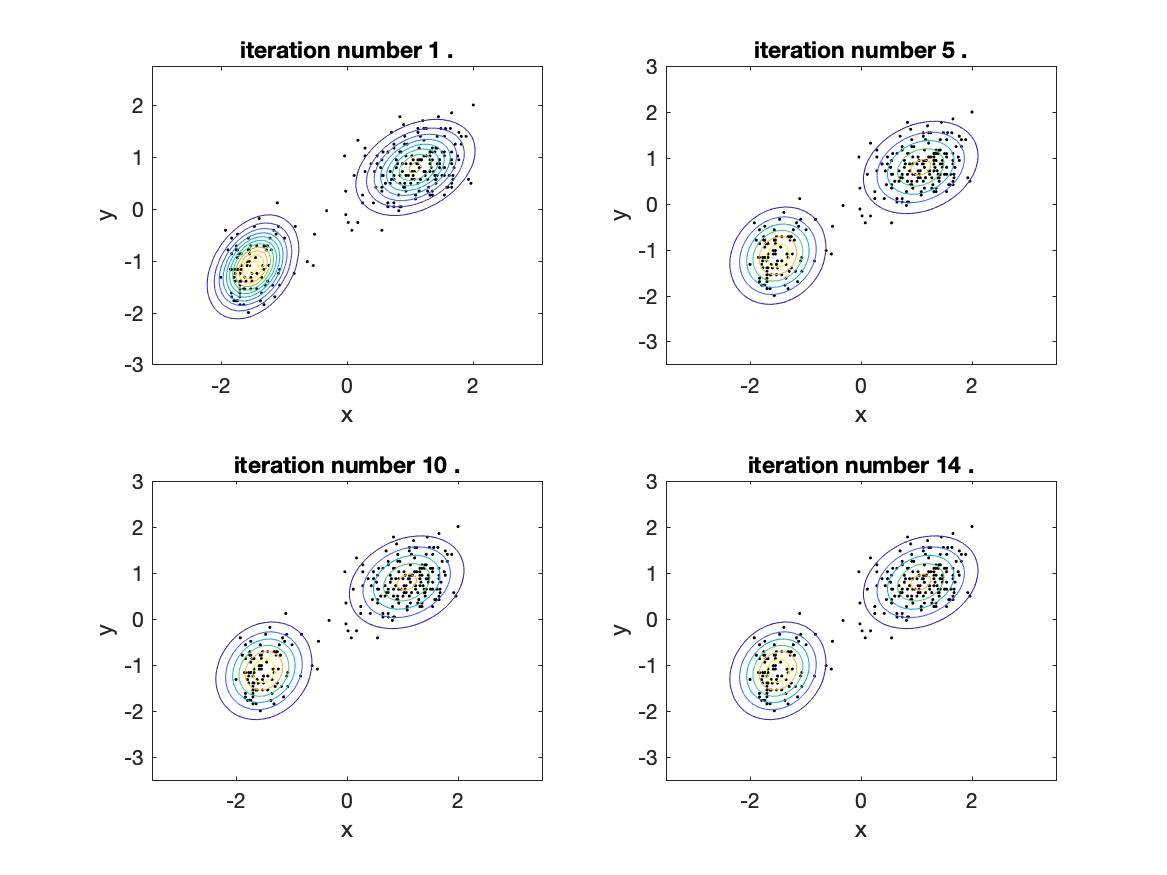
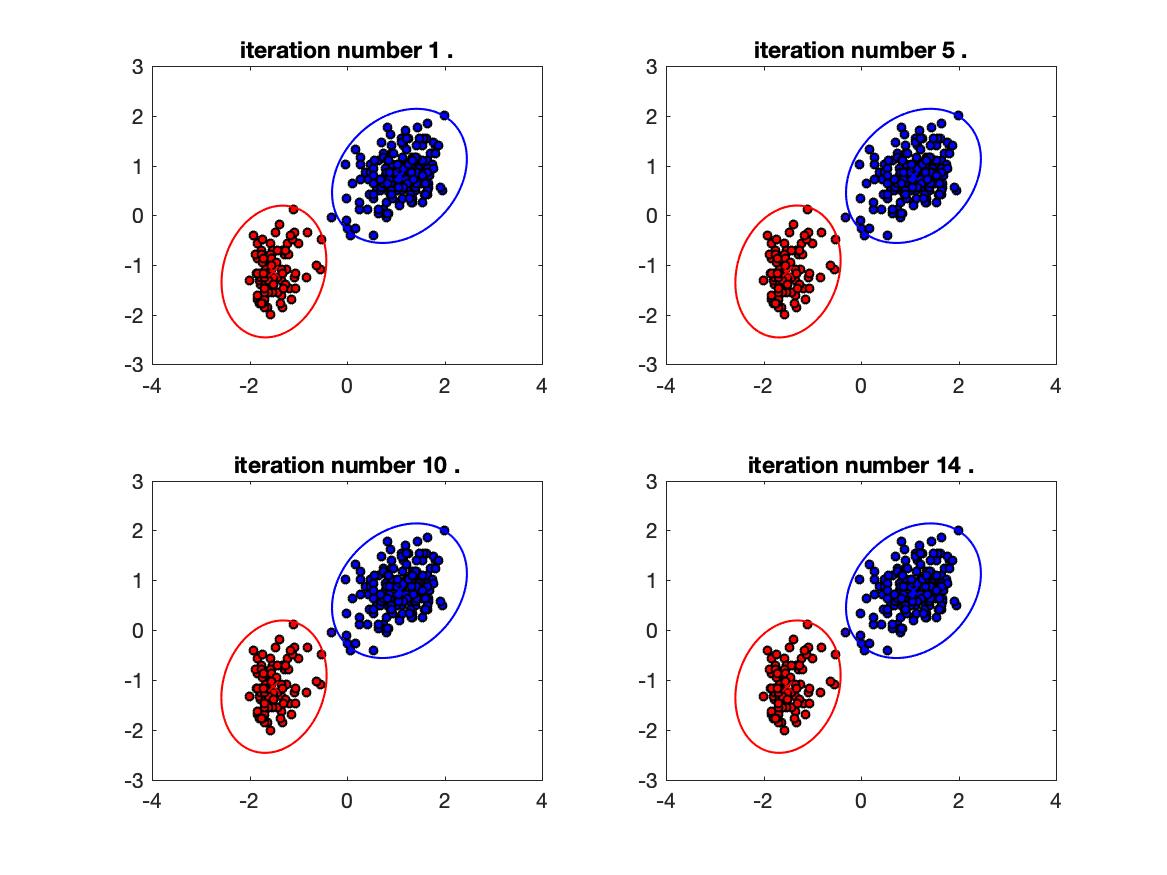
add soft assignment plot

diff --git a/EM/plot_figure.m b/EM/plot_figure.m
@@ -4,12 +4,44 @@
 %%%%%%%%%%%%%%%%%%%%%%%%%%%%%%%%%%%%%%%%%%%%%%%%%%%%%%%%%%%%%%%%%%%%%%%%%%%
 %Mixture of Gaussian contour Plot                                               
 
-function out=plot_figure(x_data,iter,visual,mu,sigma)    
+function out=plot_figure(x_data,iter,visual,mu,sigma,r)    
+    n=length(x_data);
     subplot(ceil(sqrt(length(visual))),ceil(sqrt(length(visual))),find(visual==iter))
     G = gmdistribution(mu,sigma);
     F = @(x,y) pdf(G,[x y]);
-    plot(x_data(:,1),x_data(:,2),'k.','MarkerSize',2);
+    soft_ass = [r(:,1), zeros(n, 1), r(:,2)]; % fraction of red and blue   
+    for i=1:n
+        plot(x_data(i, 1), x_data(i, 2), 'o', 'MarkerSize', 4, 'MarkerFaceColor', soft_ass(i, :), 'MarkerEdgeColor', 'k');
+        hold on
+    end
+   
+    hold on  
+    mu1 = mu(1,:)';
+    [U, D] = eig(sigma(:,:,1));
+    ni = 100;
+    t = linspace(0, 2*pi, ni);
+    xy = [cos(t); sin(t)];
+    k = sqrt(chi2inv(0.95, 2)); % 5.99
+    %k = sqrt(6);
+    w = (k * U * sqrt(D)) * xy;
+    z = repmat(mu1, [1 ni]) + w;
+    h = plot(z(1, :), z(2, :), 'color', 'r', 'linewidth', 1);
     hold on
-    out=ezcontour(F);
+    plot(mu1(1), mu1(2),  'x','markersize', 5,'color', 'r');
+    xlim([-4,4]);
+    mu2 = mu(2,:)';
+    [U, D] = eig(sigma(:,:,2));
+    ni = 100;
+    t = linspace(0, 2*pi, ni);
+    xy = [cos(t); sin(t)];
+    k = sqrt(chi2inv(0.95, 2)); % 5.99
+    %k = sqrt(6);
+    w = (k * U * sqrt(D)) * xy;
+    z = repmat(mu2, [1 ni]) + w;
+    h = plot(z(1, :), z(2, :), 'color', 'b', 'linewidth', 1);
+    hold on
+    plot(mu2(1), mu2(2),  'x','markersize', 5,'color', 'b');
+    xlim([-4,4]);
+    out=1;
     title(['iteration number ',num2str(iter),' .']);
 end

diff --git a/EM/EM.m b/EM/EM.m
@@ -43,20 +43,20 @@ function [out,y_predicted] = EM(x_data,K,method,iters,diff,estimate,visual)
     obj_fun=0;
 
     for iter=1:iters
-        if ismember(iter,visual)
-            out=plot_figure(x_data,iter,visual,mu,sigma);
-        end
         % E-step
         r=e_step(x_data,K,pi,mu,sigma);
         % M-step
         [pi,mu,sigma]=m_step(x_data,K,r,estimate);
         [~,predicted]=max(r,[],2);
         obj_fun(iter+1)=sum(log(mvnpdf(x_data,mu(predicted,:),sigma(:,:,predicted)))); 
+        if ismember(iter,visual)
+            out=plot_figure(x_data,iter,visual,mu,sigma,r);
+        end
 
         if abs((obj_fun(iter+1)-obj_fun(iter))/obj_fun(iter+1))<diff || iter==iters
             fprintf('Optimization converged after %d iterations .\n',iter);
             break
-        end
+        end        
     end
     [~,y_predicted]=max(r,[],2);
 end
